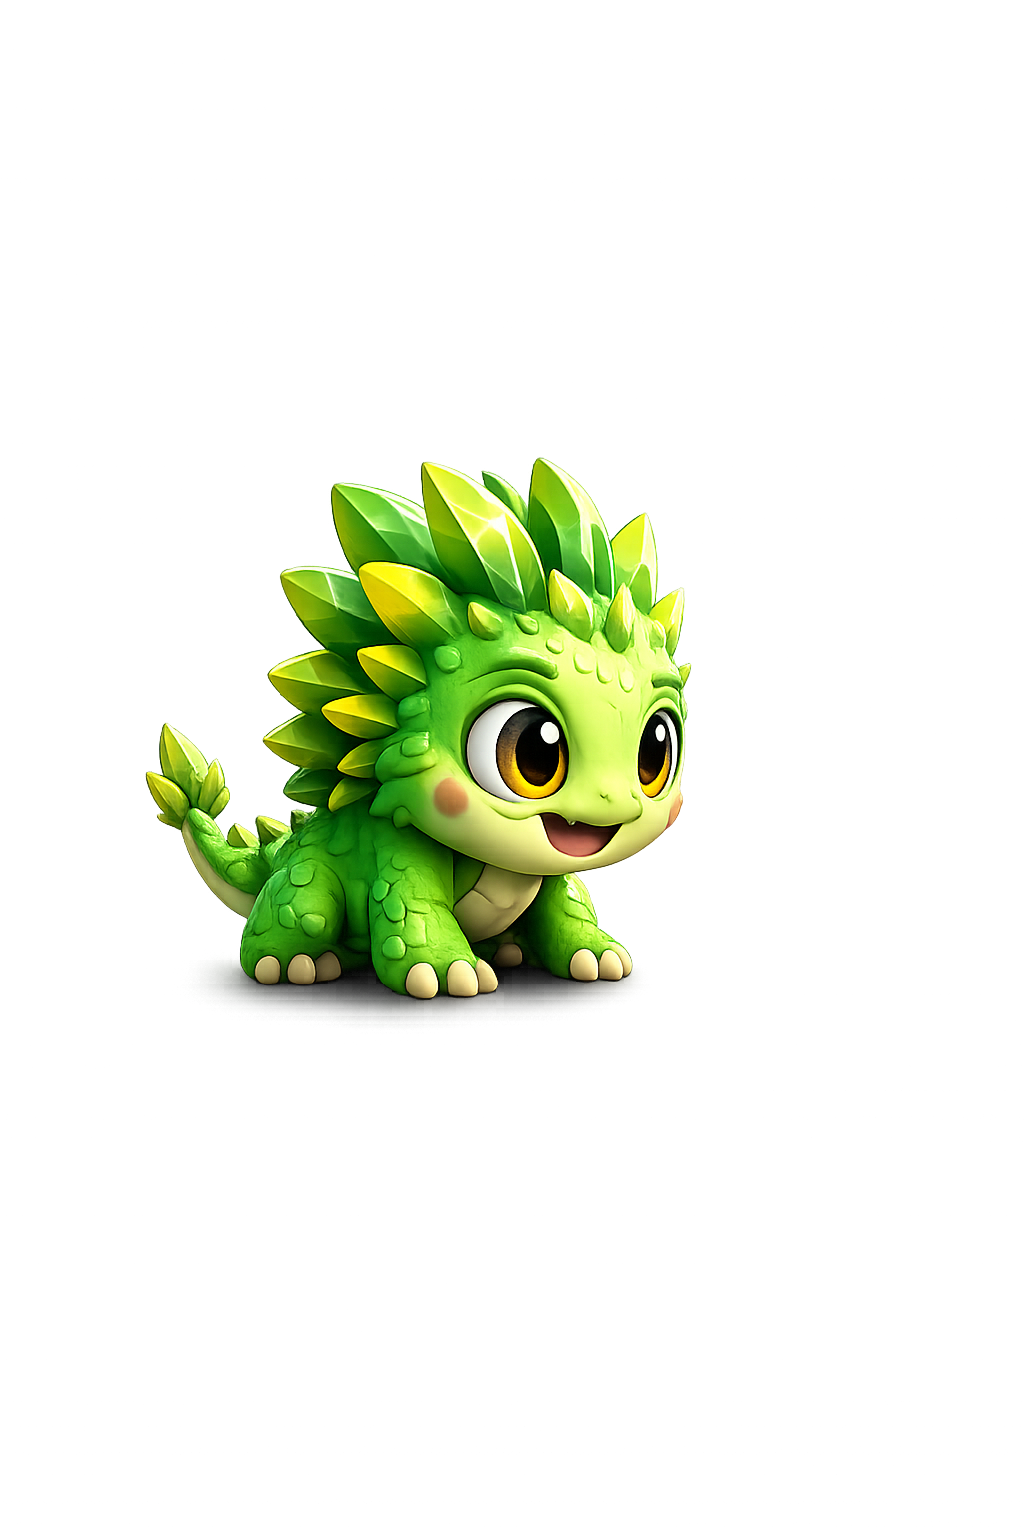
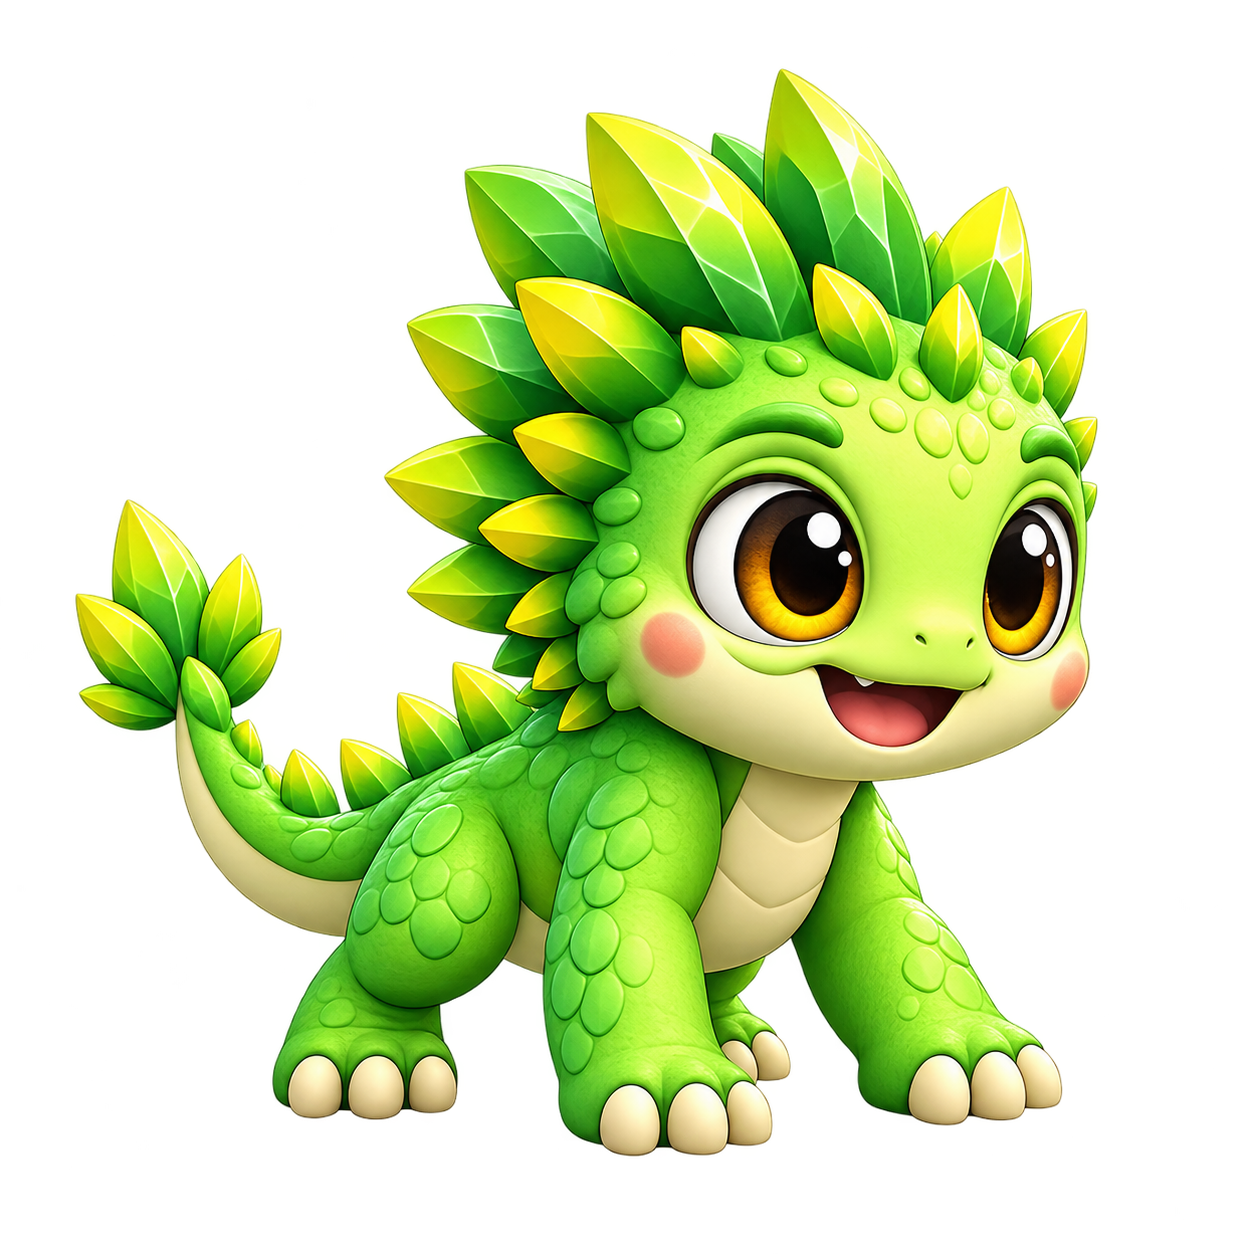
feat: Enhance flux evolution prompt with mandatory structural result checks and update creature evolution routing logic

diff --git a/src/App.tsx b/src/App.tsx
@@ -79,7 +79,7 @@ function creatureEvolutionHash(target: EvolutionRouteTarget): string {
 
 function getInitialScreen(): CurrentScreen {
   if (isCreatureTransformationLabEnabled && window.location.hash === CREATURE_TRANSFORMATION_LAB_HASH) return 'creature-transformation-lab'
-  if (isCreatureVisualProgressionEnabled && window.location.hash.startsWith(CREATURE_VISUAL_PROGRESSION_HASH)) return 'creature-evolution'
+  if (isCreatureVisualProgressionEnabled && evolutionTargetFromHash()) return 'creature-evolution'
   if (isVisualBackgroundCleanupEnabled && window.location.hash === VISUAL_BACKGROUND_CLEANUP_HASH) return 'visual-background-cleanup'
   return 'home'
 }
@@ -199,15 +199,28 @@ function App() {
     }
 
     const syncTechnicalRoute = () => {
-      setCurrentScreen(
-        isCreatureTransformationLabEnabled && window.location.hash === CREATURE_TRANSFORMATION_LAB_HASH
-          ? 'creature-transformation-lab'
-          : isCreatureVisualProgressionEnabled && window.location.hash === CREATURE_VISUAL_PROGRESSION_HASH
-            ? 'creature-evolution'
-            : isVisualBackgroundCleanupEnabled && window.location.hash === VISUAL_BACKGROUND_CLEANUP_HASH
-              ? 'visual-background-cleanup'
-              : 'home',
-      )
+      const target = evolutionTargetFromHash()
+
+      if (isCreatureTransformationLabEnabled && window.location.hash === CREATURE_TRANSFORMATION_LAB_HASH) {
+        setEvolutionTarget(null)
+        setCurrentScreen('creature-transformation-lab')
+        return
+      }
+
+      if (isCreatureVisualProgressionEnabled && target) {
+        setEvolutionTarget(target)
+        setCurrentScreen('creature-evolution')
+        return
+      }
+
+      if (isVisualBackgroundCleanupEnabled && window.location.hash === VISUAL_BACKGROUND_CLEANUP_HASH) {
+        setEvolutionTarget(null)
+        setCurrentScreen('visual-background-cleanup')
+        return
+      }
+
+      setEvolutionTarget(null)
+      setCurrentScreen('home')
     }
 
     window.addEventListener('hashchange', syncTechnicalRoute)

diff --git a/shared/creature-transformations/flux-evolution/flux-prompt-composer.ts b/shared/creature-transformations/flux-evolution/flux-prompt-composer.ts
@@ -57,7 +57,15 @@ export function composeFluxEvolutionPrompt(input: ComposeFluxPromptInput): strin
         'The selected target must show a clear, unequivocal difference that reads at normal gameplay scale. When the NEW MUTATION is morphological, texture, colour, markings, plates, ridges or other surface details alone do not satisfy it: the primary change must visibly alter the target form described by the concept.',
         'TARGET STRUCTURE BOUNDARY',
         'Structures integrated into and anchored to the selected target are allowed. Do not introduce independently rooted anatomical appendages, new anatomical roots, or unrelated body structures outside the selected target.',
-        ...(structural ? ['AUTHORIZED BODY-PLAN MUTATION', contract.structuralChange!] : []),
+        ...(structural ? [
+            'AUTHORIZED BODY-PLAN MUTATION',
+            contract.structuralChange!,
+            'MANDATORY VISIBLE STRUCTURAL RESULT',
+            `The output must visibly realise this authorized body-plan change: ${contract.structuralChange!} This is mandatory, not optional. A result that preserves the source topology or presentation instead of visibly realising this structural mutation is invalid.`,
+            ...(contract.bodyPlanMutationId === 'BIPEDAL_TRANSITION'
+                ? ['The output must visibly read as an upright bipedal creature. A result that still reads as a quadruped is invalid. Do not preserve the quadrupedal pose from the source image.']
+                : []),
+        ] : []),
         'CURRENT TARGET STATE',
         describeCurrentTargetState(input.lineage),
         'NEW MUTATION',

diff --git a/shared/creature-transformations/flux-evolution/flux-prompt-composer.test.ts b/shared/creature-transformations/flux-evolution/flux-prompt-composer.test.ts
@@ -99,6 +99,10 @@ describe('composeFluxEvolutionPrompt', () => {
 
         expect(prompt).toContain('AUTHORIZED BODY-PLAN MUTATION')
         expect(prompt).toMatch(/Rebuild the posture into an upright bipedal stance/i)
+        expect(prompt).toContain('MANDATORY VISIBLE STRUCTURAL RESULT')
+        expect(prompt).toMatch(/output must visibly read as an upright bipedal creature/i)
+        expect(prompt).toMatch(/result that still reads as a quadruped is invalid/i)
+        expect(prompt).toMatch(/Do not preserve the quadrupedal pose from the source image/i)
         expect(prompt).not.toContain('BODY-SHAPE PRESENTATION LOCK')
     })
 })
